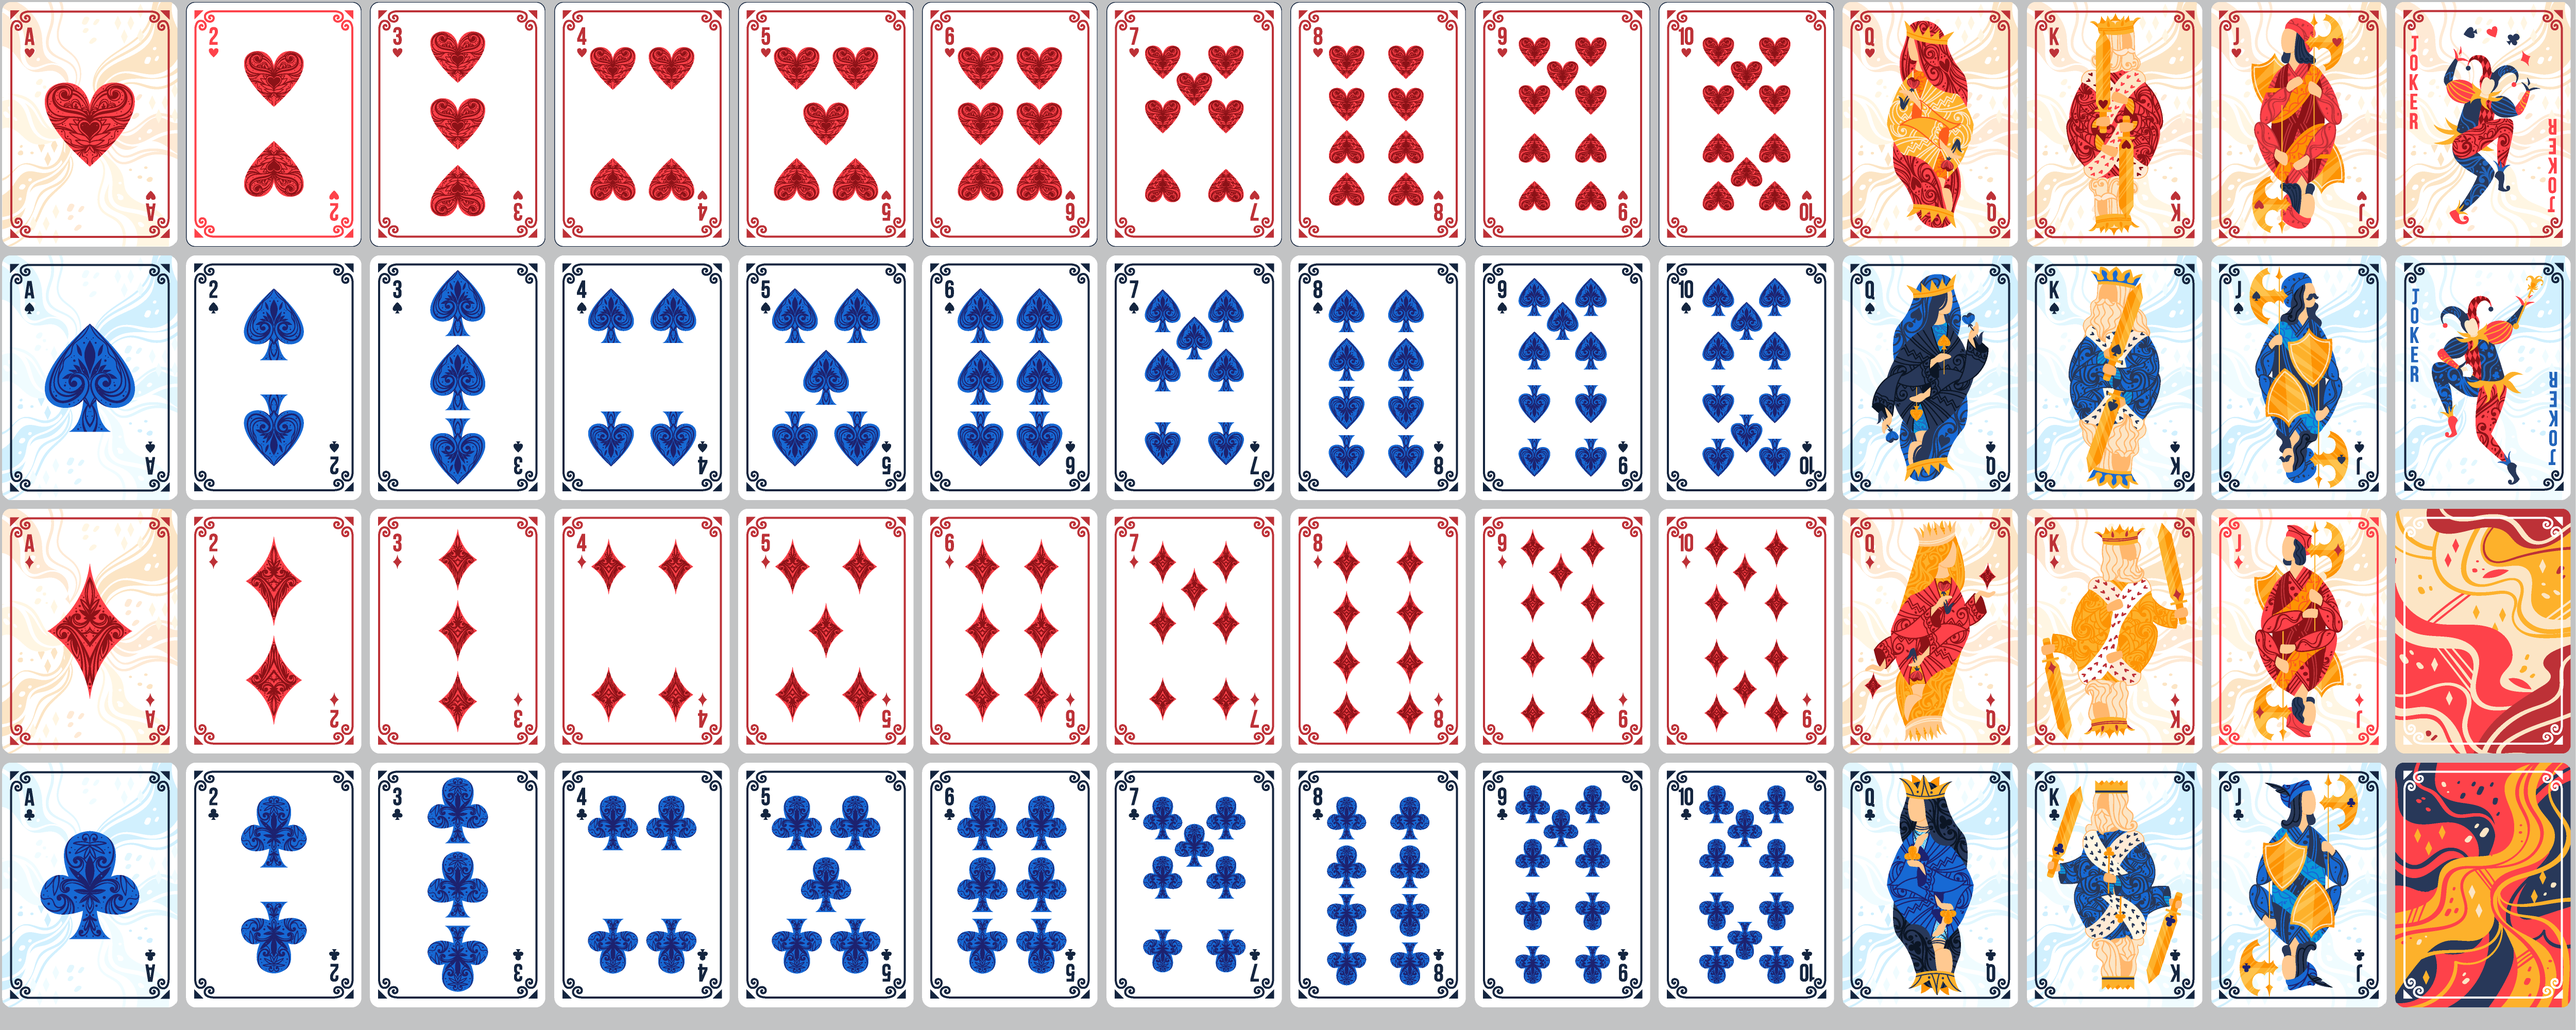
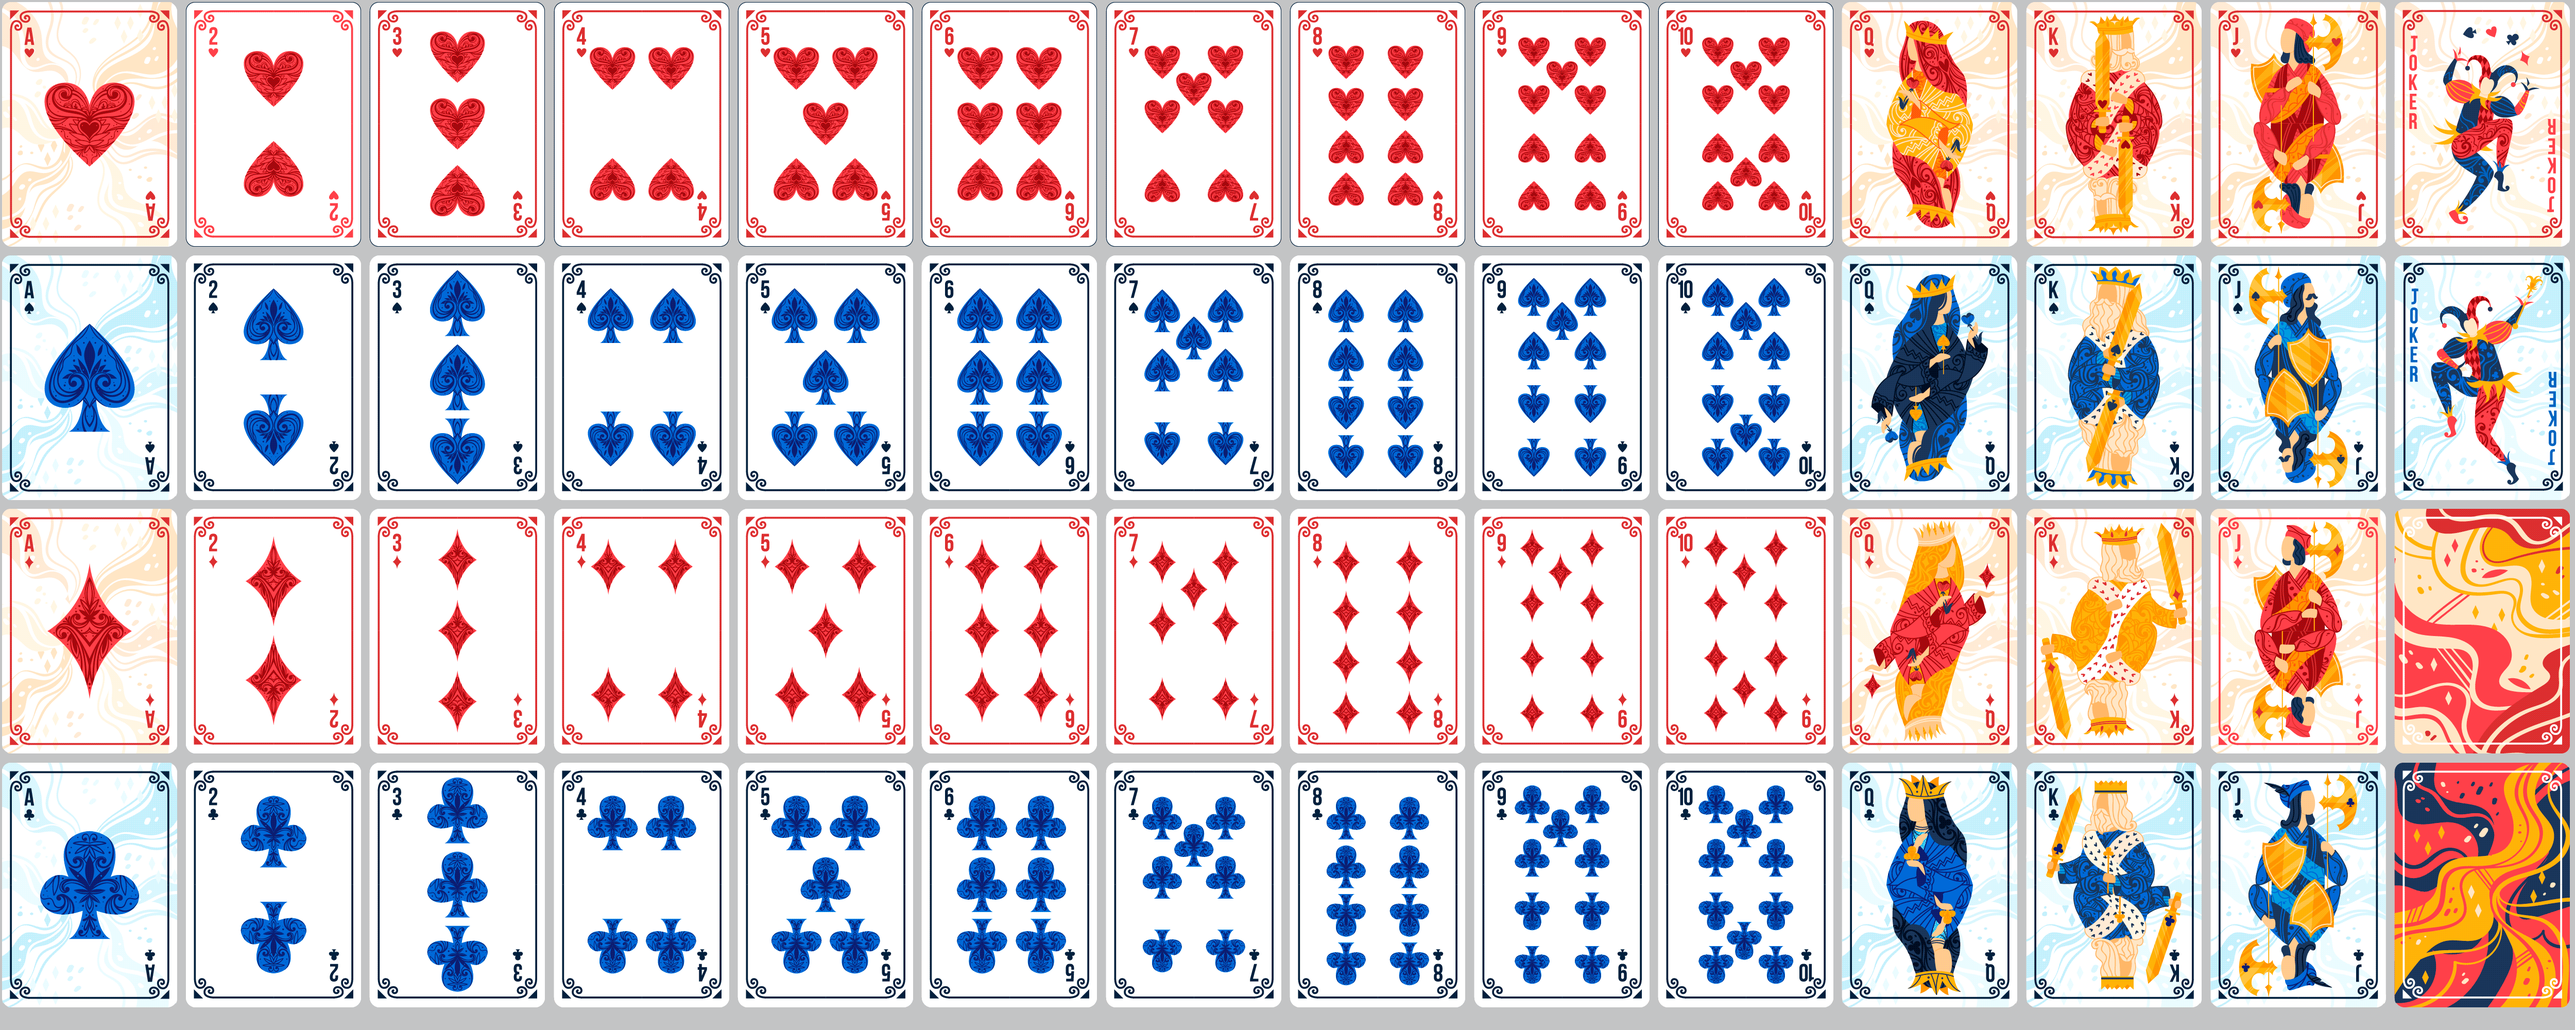
chore: update deck2.png, card-game page, add diamonds.png asset

diff --git a/src/app/card-game/page.js b/src/app/card-game/page.js
@@ -1,47 +1,7 @@
 'use client'
 
 import CardGame from '../components/CardGame'
-import { motion } from 'framer-motion'
-import { Spade, Heart, Diamond, Club } from 'lucide-react'
 
 export default function CardGamePage() {
-  return (
-    <>
-      {/* Floating icons */}
-      <motion.div
-        className="fixed-full pointer-events-none"
-        initial={{ opacity: 0 }}
-        animate={{ opacity: 1 }}
-        transition={{ duration: 1 }}
-      >
-        {[Spade, Heart, Diamond, Club].map((Icon, index) => (
-          <motion.div
-            key={index}
-            className="absolute text-white/20"
-            initial={{ y: 0 }}
-            animate={{
-              y: [-20, 20, -20],
-              x: index % 2 === 0 ? [-10, 10, -10] : [10, -10, 10],
-            }}
-            transition={{
-              duration: 5,
-              repeat: Infinity,
-              delay: index * 0.5,
-            }}
-            style={{
-              left: `${15 + index * 25}%`,
-              top: `${20 + (index % 3) * 20}%`,
-            }}
-          >
-            <Icon size={24 + index * 8} />
-          </motion.div>
-        ))}
-      </motion.div>
-
-      {/* Card Game component */}
-      <div className="relative min-h-screen">
-        <CardGame />
-      </div>
-    </>
-  )
+  return <CardGame />
 }
